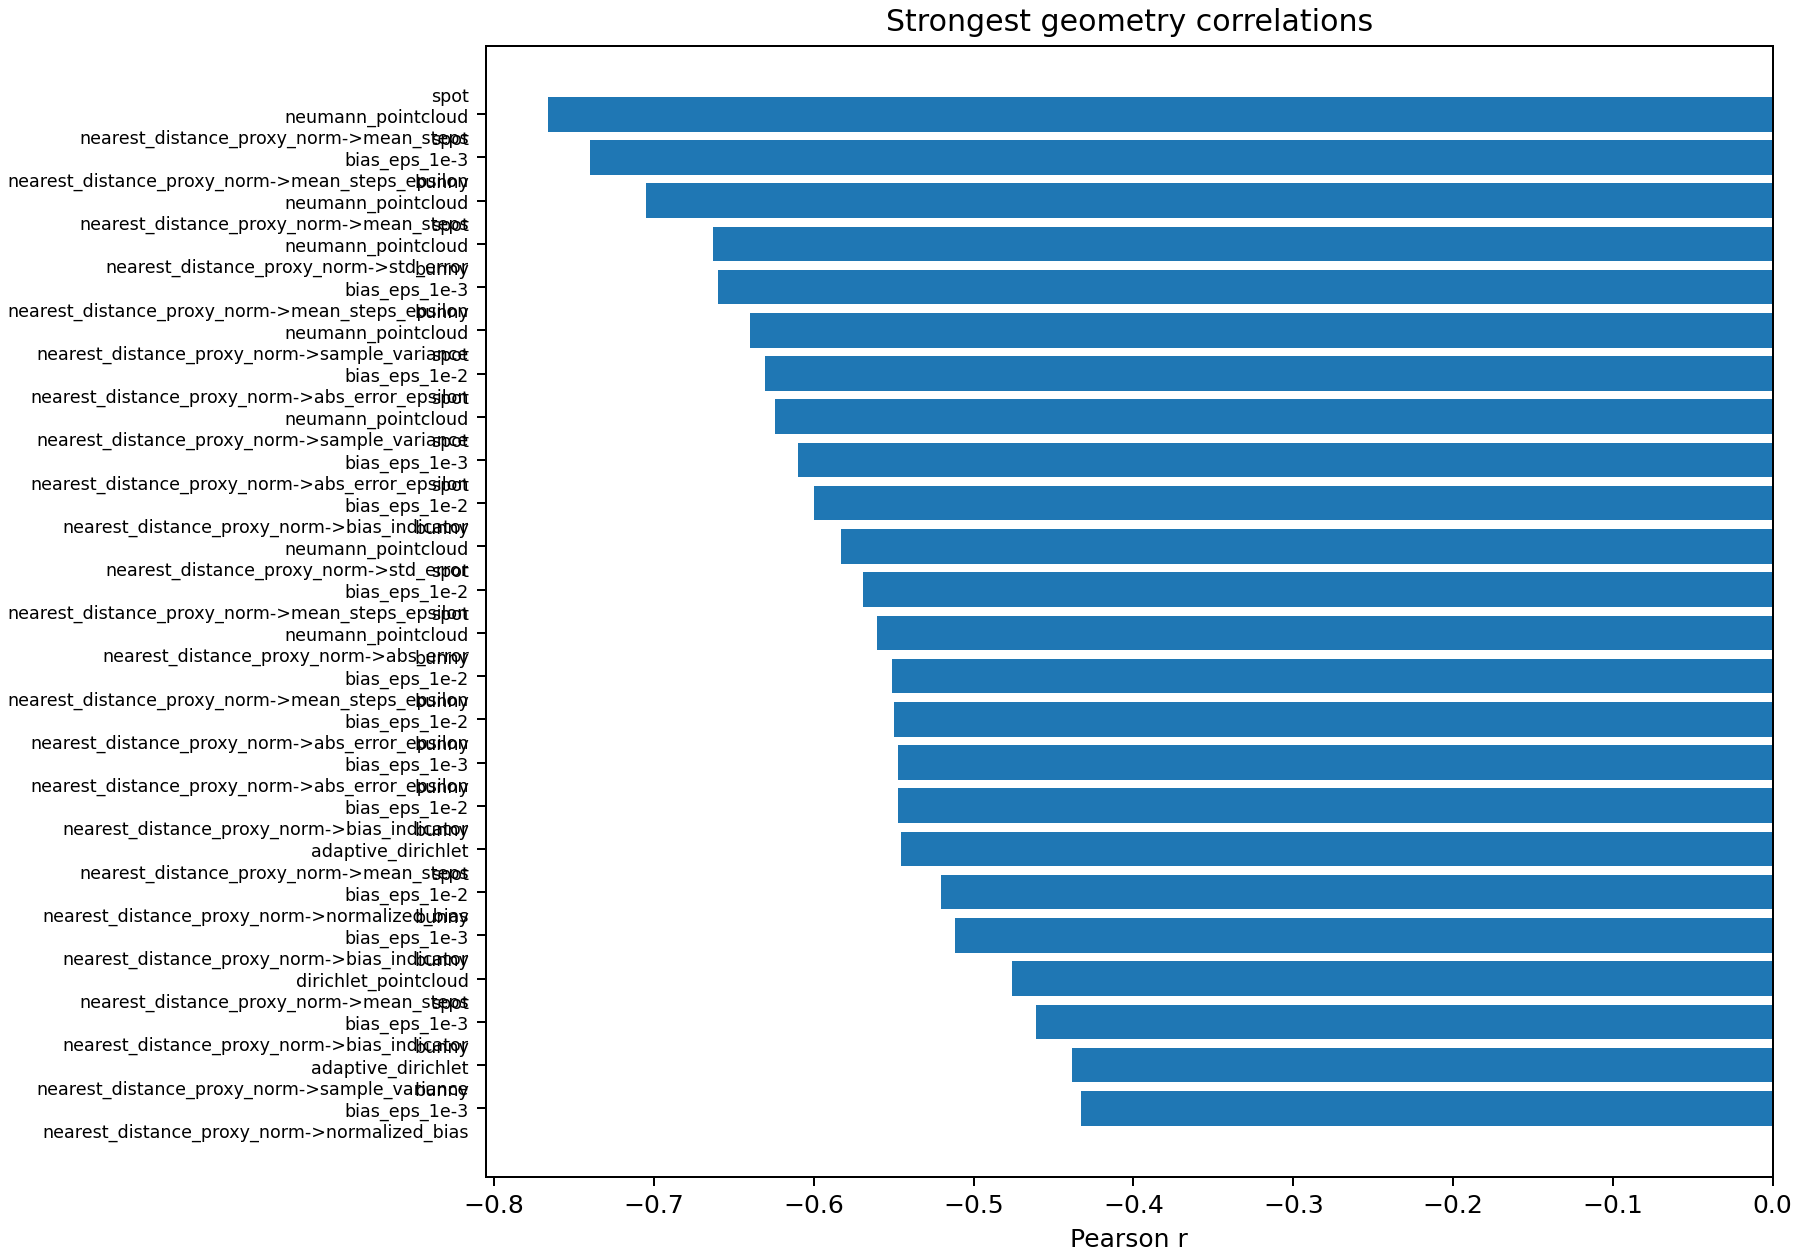
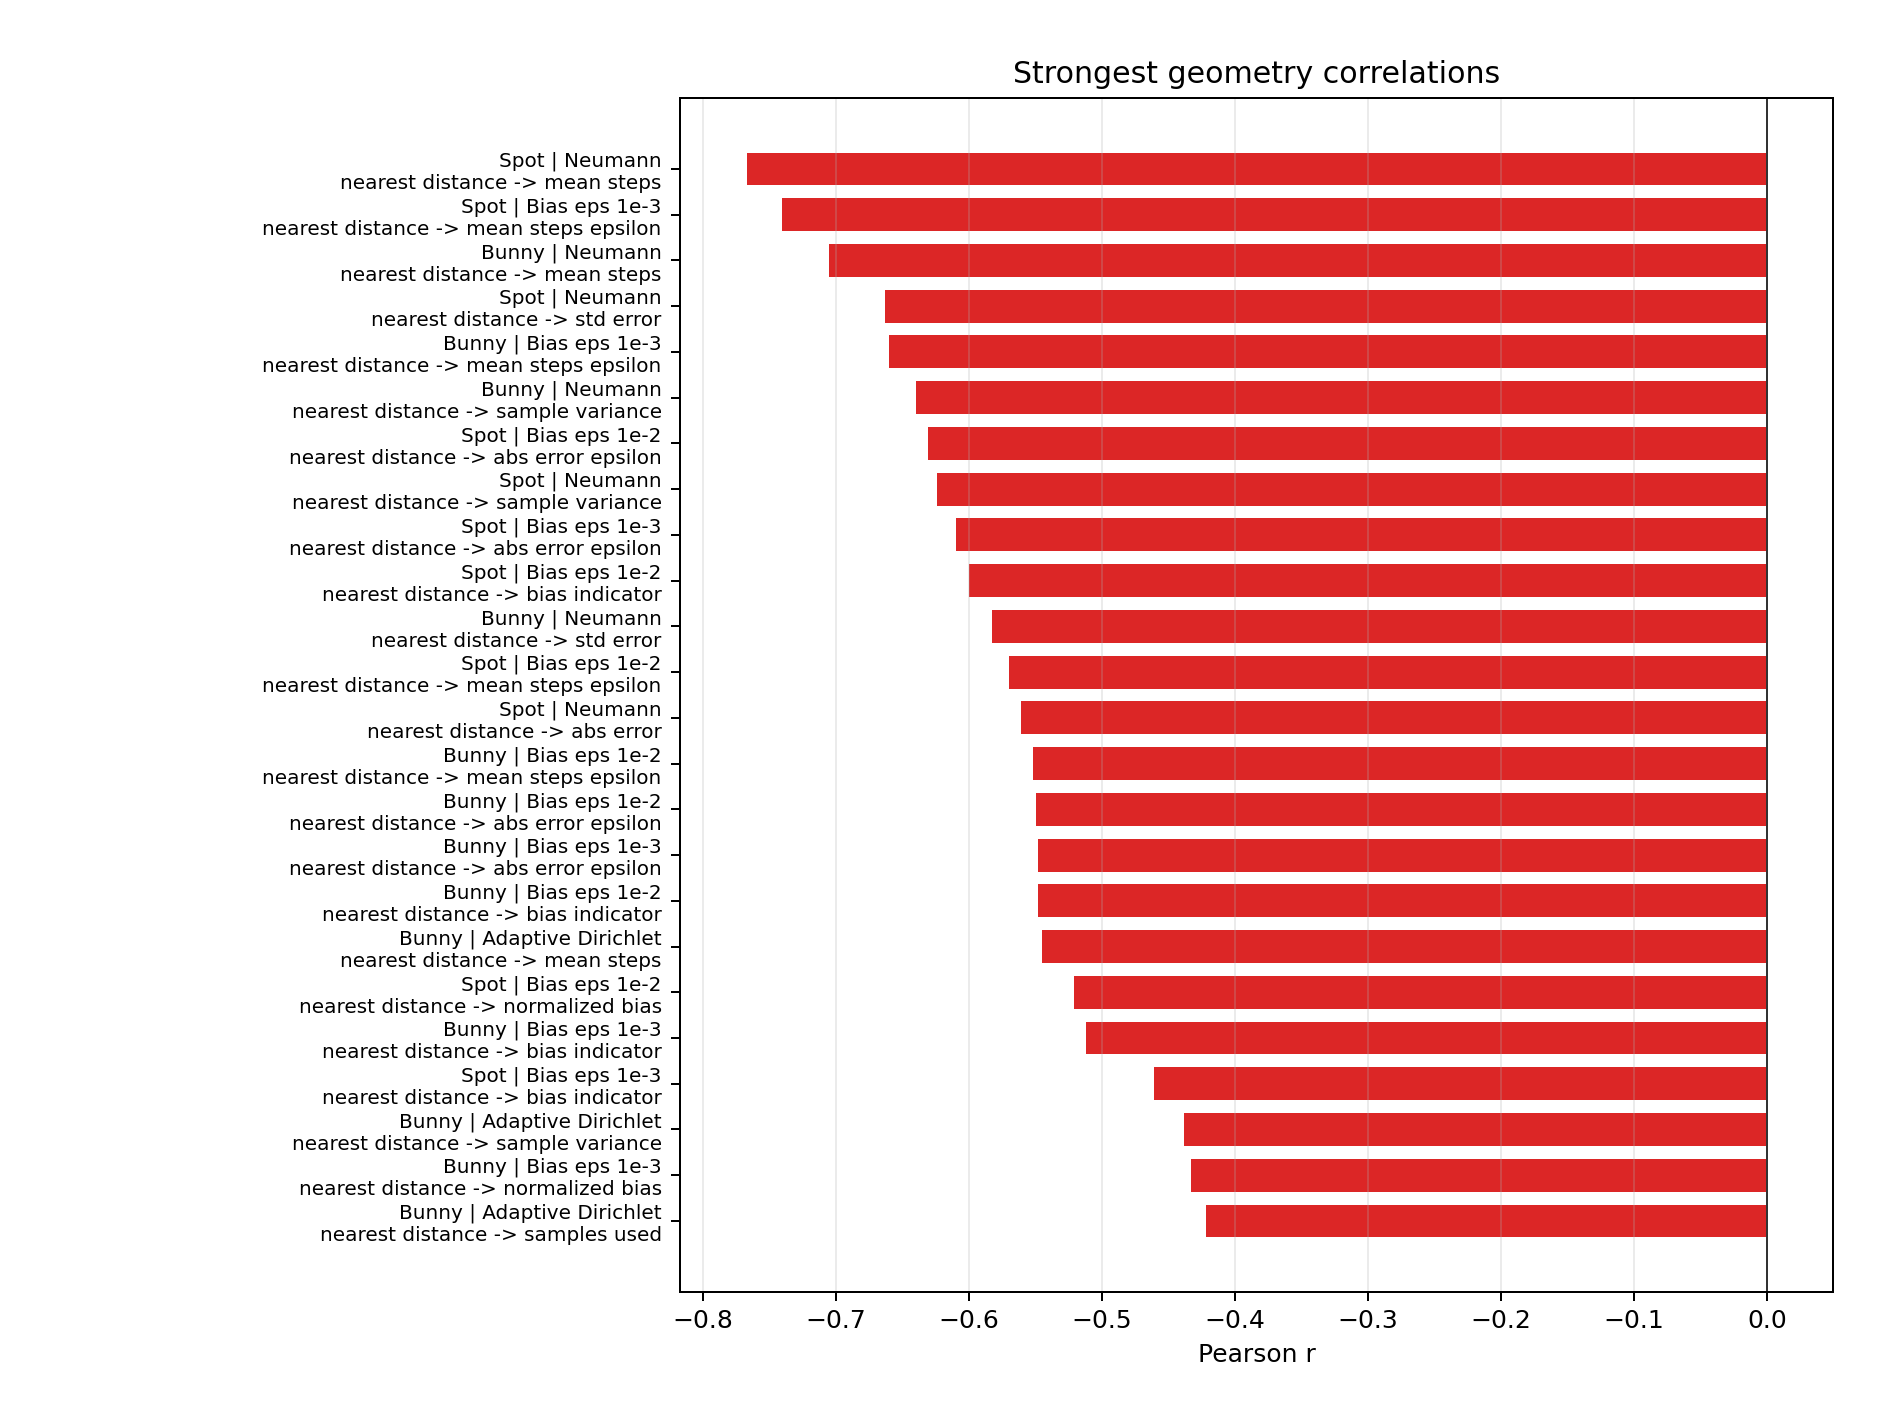
update_report

diff --git a/content/project/wost-final-project/index.md b/content/project/wost-final-project/index.md
@@ -219,7 +219,7 @@ Adaptive sampling asks where variance concentrates. Spot saturates near the maxi
 ![2D path trace](fig11_spot_live_trace.png)
 **Figure 12.** A 2D slice of the live path trace.
 
-Try the [3D live demo](/files/wost-final-project/boundary_bias_detector_3d.html) to inspect the reflection-heavy behavior near difficult Neumann regions.
+Try the [3D live demo](/files/wost-final-project/live_trace_interactive_3d.html) to inspect the reflection-heavy behavior near difficult Neumann regions.
 
 ### 10.3 Antithetic Sampling
 